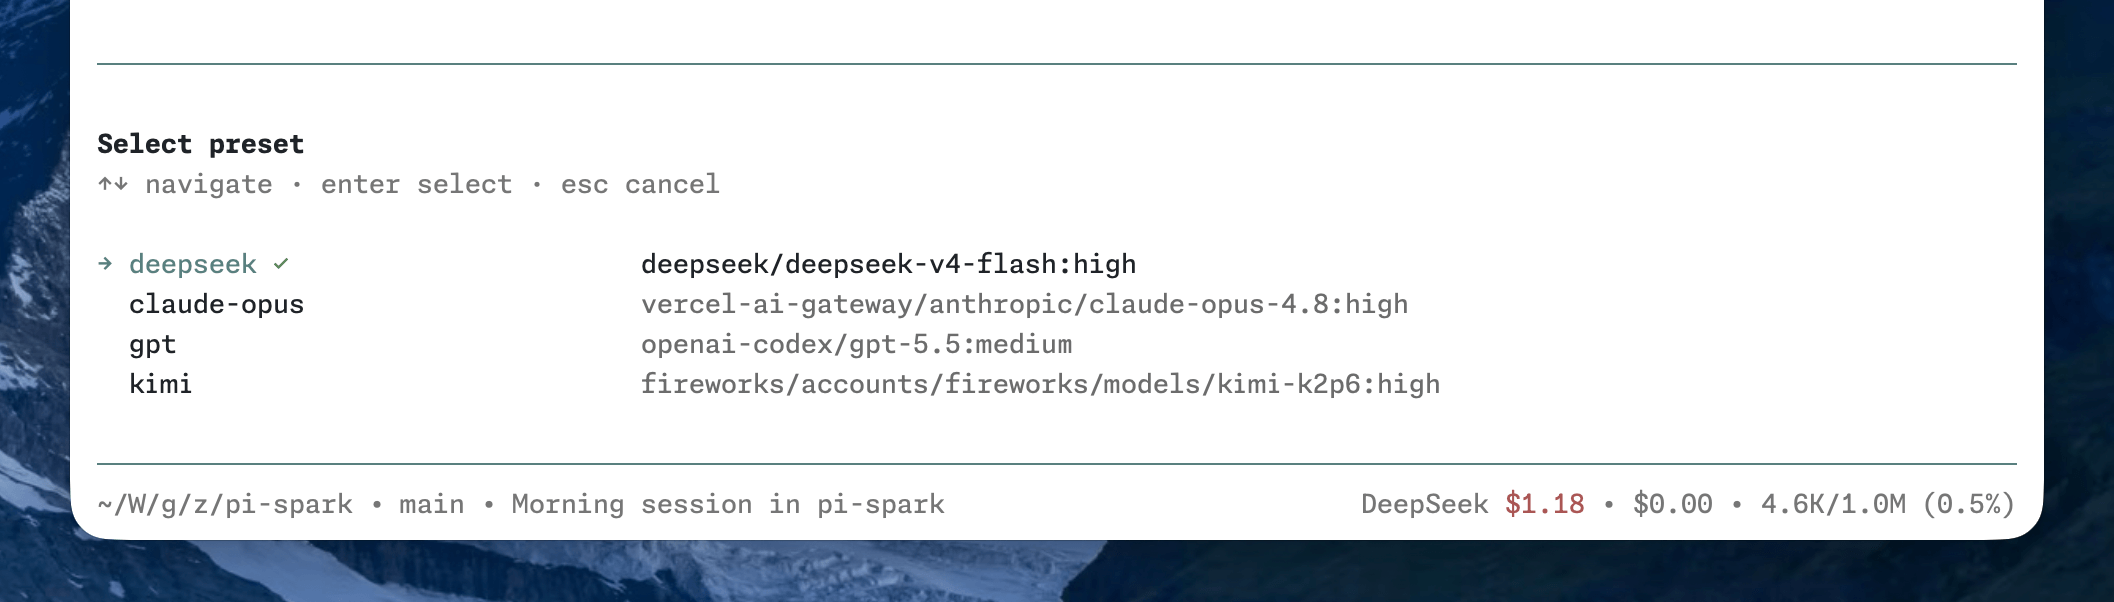
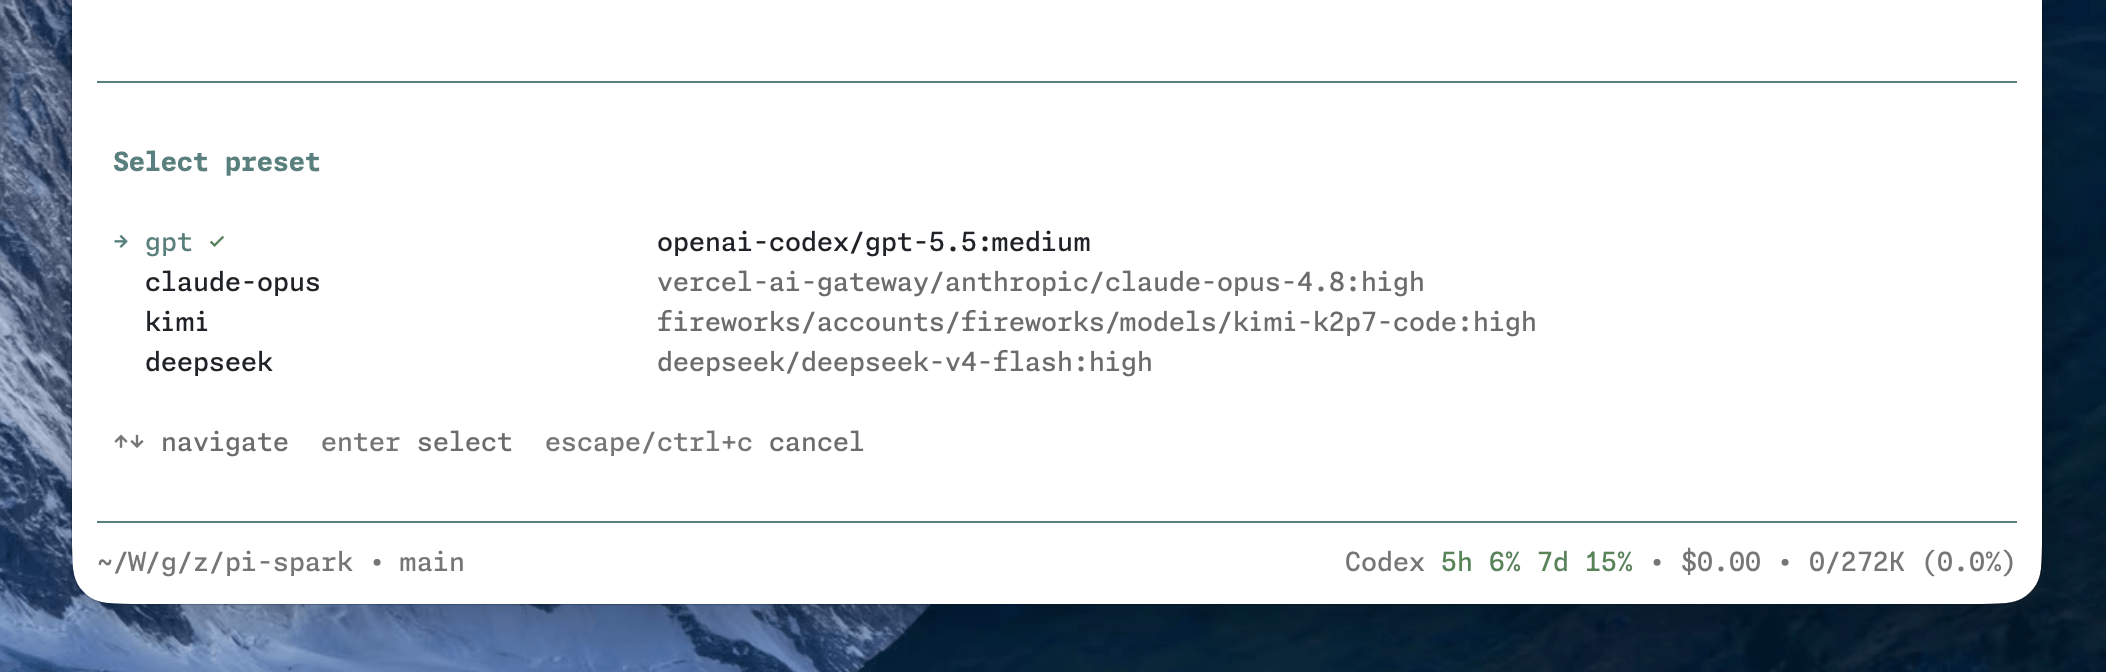
docs: update README reference

diff --git a/README.md b/README.md
@@ -131,18 +131,22 @@ Each preset must set all three fields.
 | --- | --- | --- |
 | `provider` | string | Provider ID, e.g., `anthropic`. |
 | `model` | string | Model ID, e.g., `claude-opus-4-8`. |
-| `thinkingLevel` | `off`, `minimal`, `low`, `medium`, `high`, `xhigh` | Thinking level for the preset. |
+| `thinkingLevel` | `ModelThinkingLevel` | Thinking level for the preset. |
 
 #### `RecapConfig`
 
-All fields are optional, including `thinkingLevel`.
+All fields are optional, including `thinkingLevel`. If the recap model configuration is incomplete, pi-spark falls back to the session's main model.
 
 | Field | Value | Description |
 | --- | --- | --- |
-| `idle` | number (ms) or duration string | How long the session must stay idle before a recap is generated. Accepts a millisecond number or a [vercel/ms](https://github.com/vercel/ms) string (e.g., `"3m"`); minimum 5000 ms, defaults to 3 minutes. |
+| `idle` | number (ms) or duration string | How long the session must stay idle before a recap is generated. Accepts a millisecond number or a [vercel/ms](https://github.com/vercel/ms) string (e.g., `"5m"`); minimum 5000 ms, defaults to 5 minutes. |
 | `provider` | string | Provider ID for the recap model. |
 | `model` | string | Model ID for the recap model. |
-| `thinkingLevel` | `off`, `minimal`, `low`, `medium`, `high`, `xhigh` | Thinking level for the recap model. |
+| `thinkingLevel` | `ModelThinkingLevel` | Thinking level for the recap model. |
+
+#### `ModelThinkingLevel`
+
+Valid values: `off`, `minimal`, `low`, `medium`, `high`, `xhigh`.
 
 ### Turn off the features you don't like
 